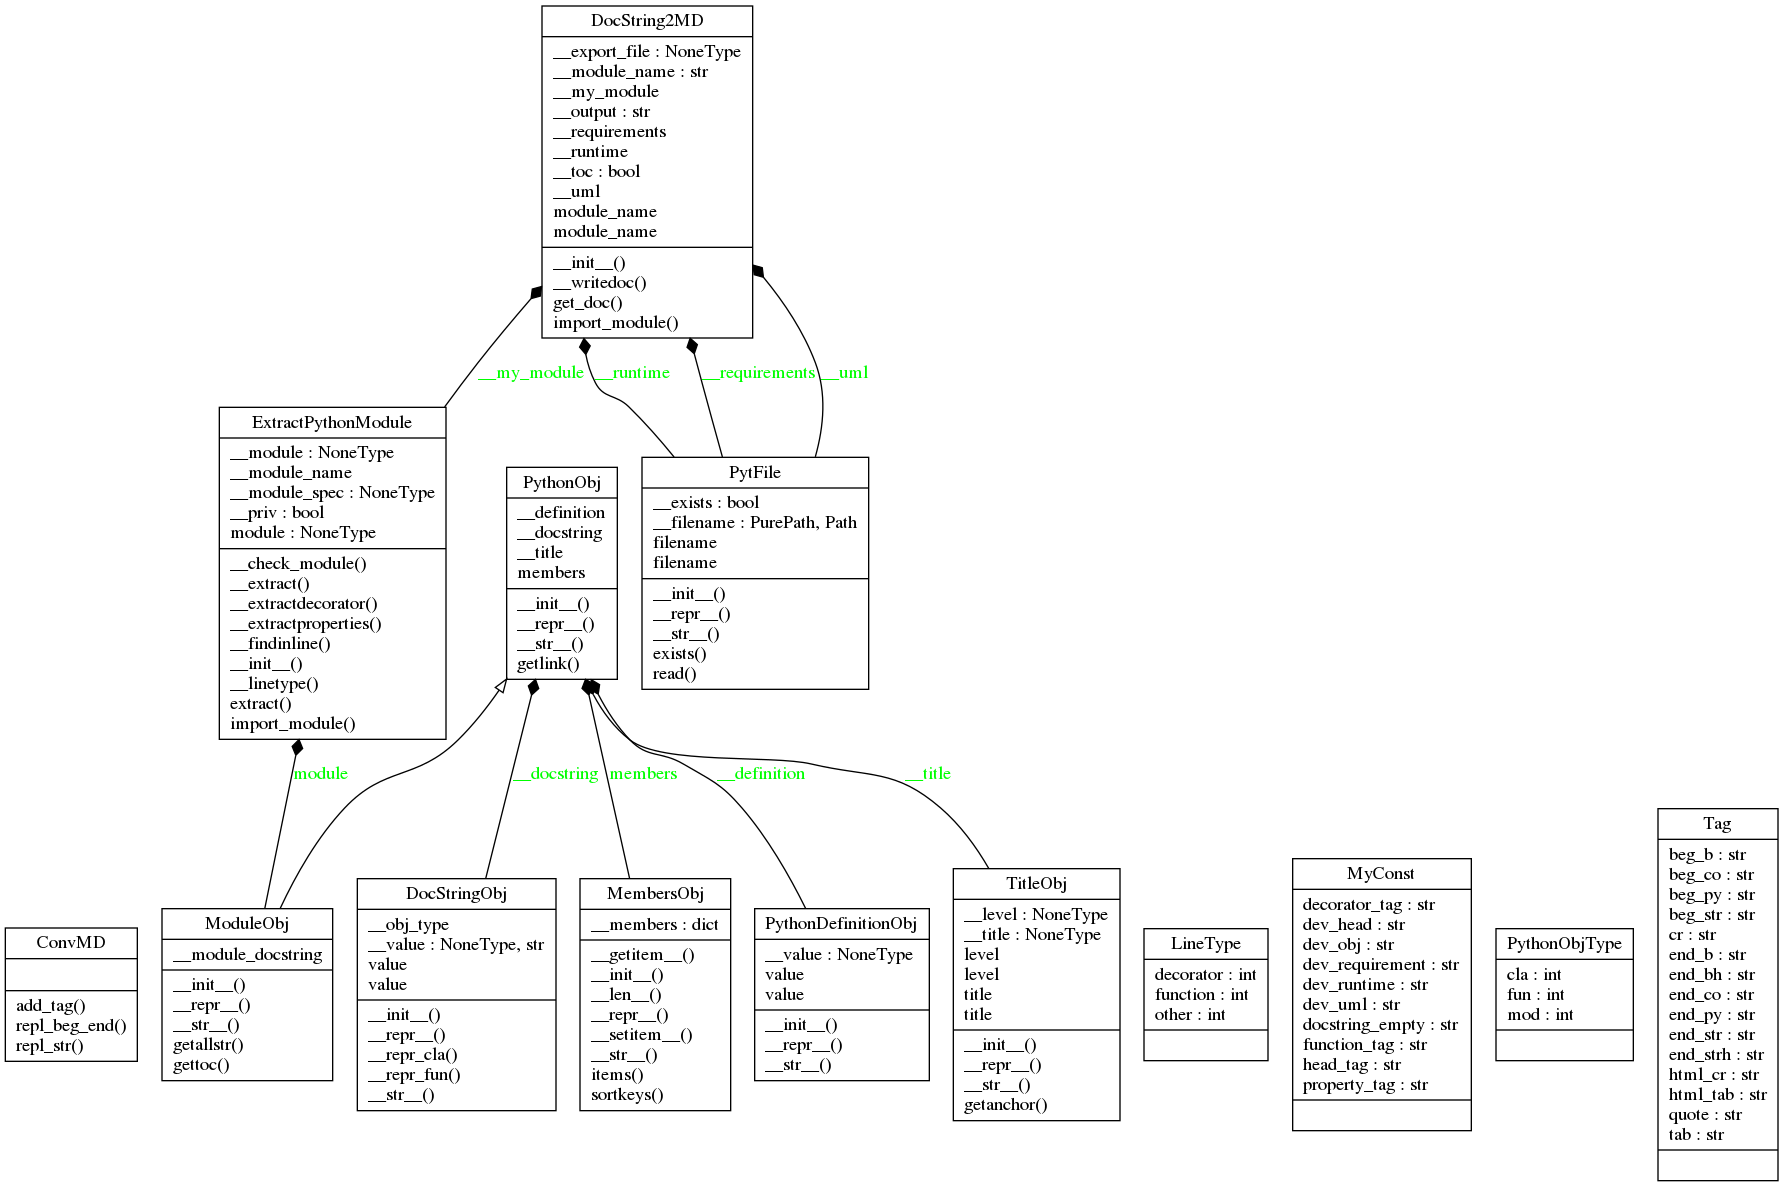
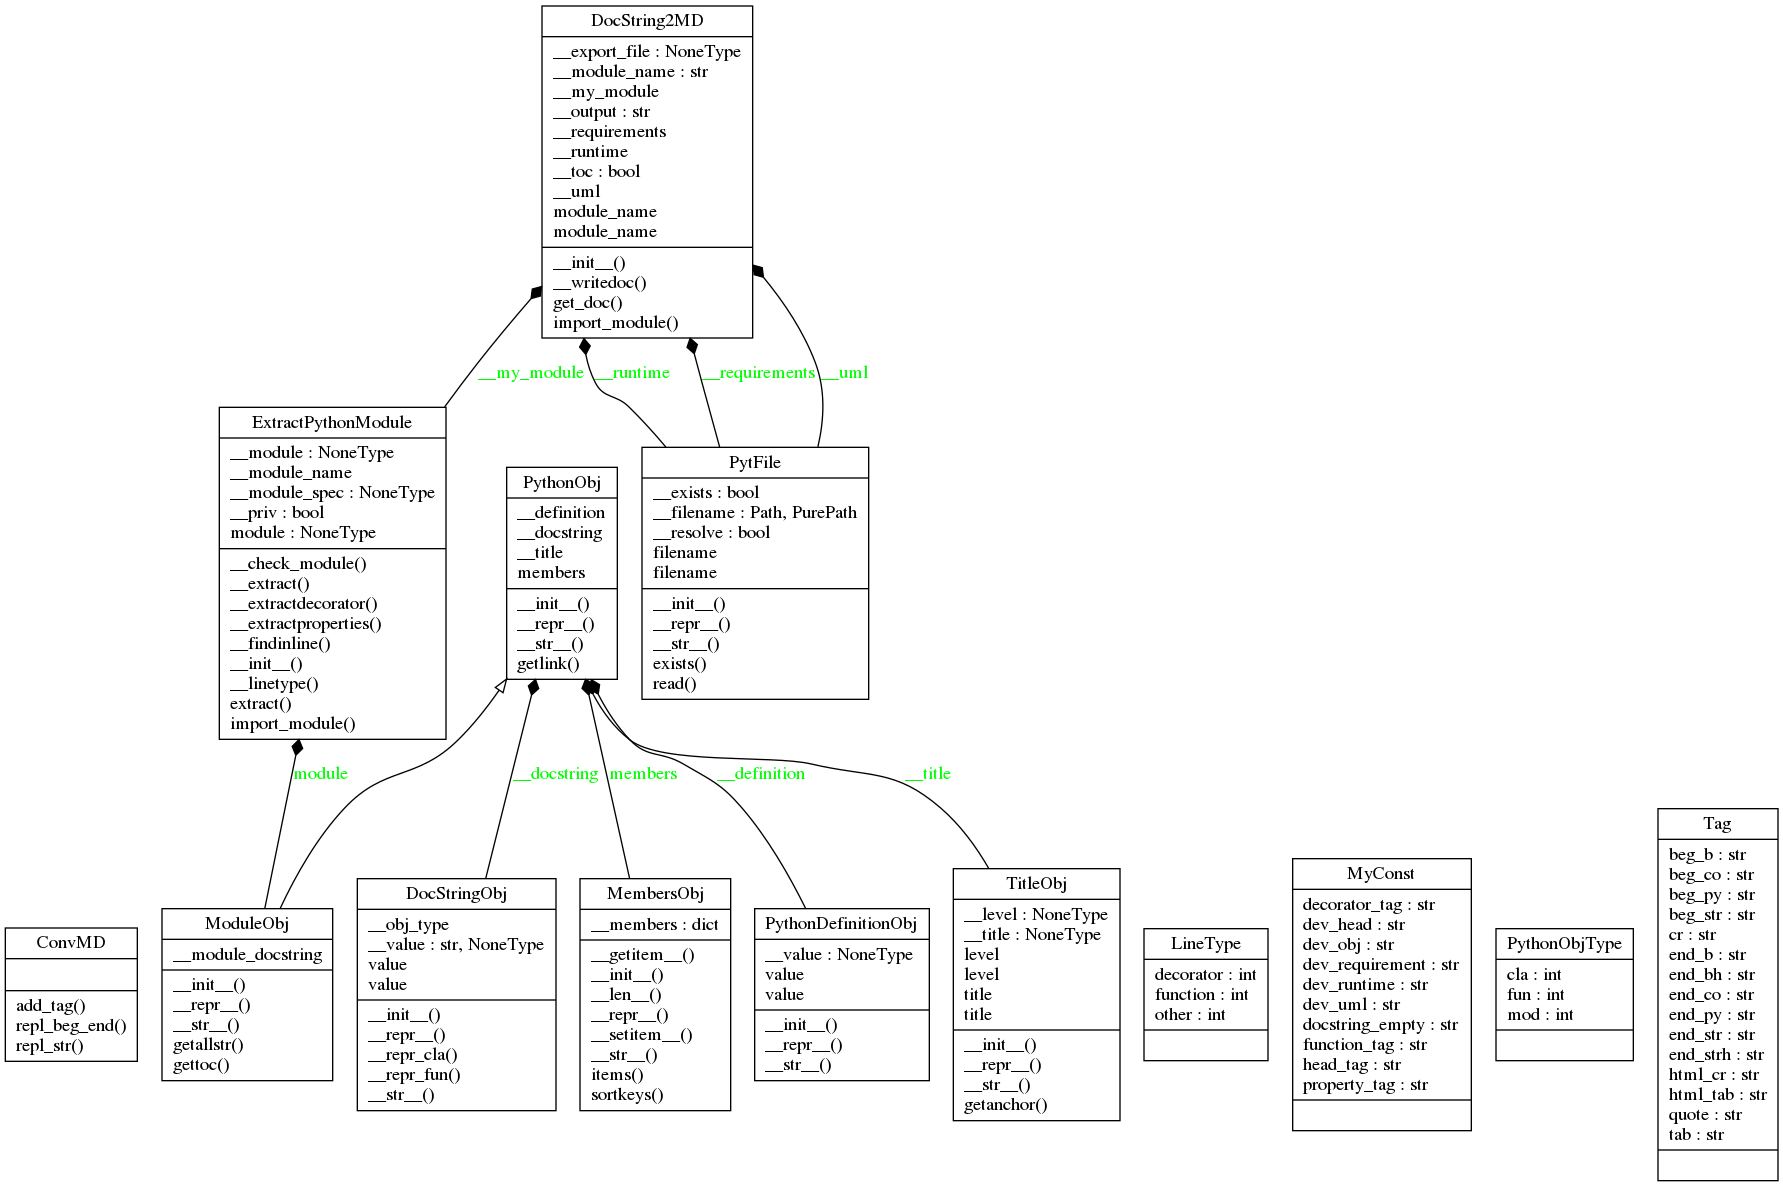
fix doc

Changed region(s): [[0.3702, 0.3741, 0.4936, 0.5922], [0.2468, 0.7793, 0.3085, 0.8104]]

diff --git a/docstring2md/file.py b/docstring2md/file.py
@@ -41,9 +41,10 @@ class PytFile(object):
 
     """
 
-    def __init__(self, filename):
+    def __init__(self, filename, resolve=True):
         self.__filename = pathlib.Path()
         self.__exists = False
+        self.__resolve = resolve
         self.filename = filename
 
     @property
@@ -61,7 +62,10 @@ class PytFile(object):
         if value is None:
             return
         if pathlib.Path(str(value)).exists():
-            self.__filename = pathlib.Path(str(value)).resolve()
+            if self.__resolve:
+                self.__filename = pathlib.Path(str(value)).resolve()
+            else:
+                self.__filename = pathlib.Path(str(value))
         else:
             self.__exists = False
             raise IOError("File not found !")

diff --git a/docstring2md/doc2md.py b/docstring2md/doc2md.py
@@ -56,7 +56,7 @@ class DocString2MD(object):
         """
         self.__runtime = PytFile(runtime_file)
         self.__requirements = PytFile(requirements_file)
-        self.__uml = PytFile(uml_file)
+        self.__uml = PytFile(uml_file, resolve=False)
         self.__export_file = export_file
         self.module_name = module_name
         self.__my_module = ExtractPythonModule(self.module_name, priv)

diff --git a/README.md b/README.md
@@ -124,7 +124,7 @@ pycodestyle>=2.3.1
 
 ```
 ### UML Diagram
-![alt text](/home/ko4la/GIT/docstring-to-markdown/pictures/classes_docstring2md.png)
+![alt text](pictures/classes_docstring2md.png)
 
 ### Objects
 [ConvMD()](#convmd)<br />
